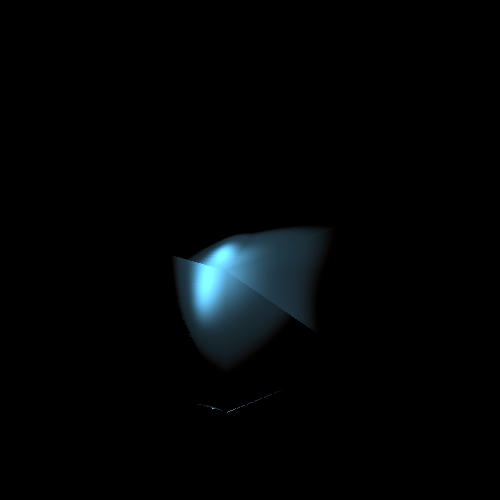
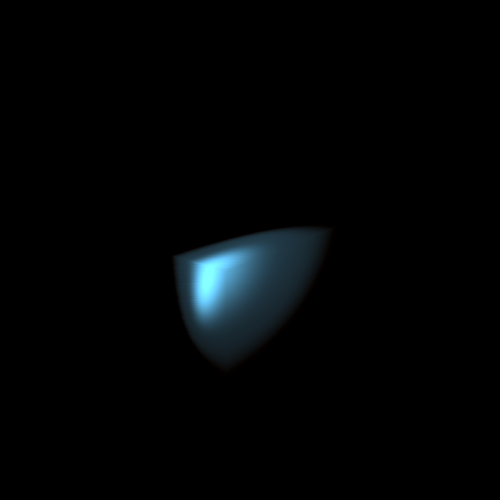
fixerino

Changed region(s): [[0.36, 0.45, 0.48, 0.54], [0.57, 0.57, 0.63, 0.66]]

diff --git a/draw.c b/draw.c
@@ -1341,7 +1341,7 @@ void draw_line2(int x0, int y0, double z0, int x1, int y1, double z1, screen s, 
 		z = z1;
 		
 		n[0] = n1[0];
-		n[1] = n1[0];
+		n[1] = n1[1];
 		n[2] = n1[2];
 		x1 = x0;
 		y1 = y0;
@@ -1371,7 +1371,7 @@ void draw_line2(int x0, int y0, double z0, int x1, int y1, double z1, screen s, 
 		//slope < 1: Octant 1 (5)
 		if ( dx > dy ) {
 			d = dy - ( dx / 2 );
-	
+			//printf("bip\n");
 			while ( x <= x1 ) {
 			  plot1(s,  x, y, z, zbuf, n, rcolor, ambient, point);
 			  if ( d < 0 ) {
@@ -1394,8 +1394,11 @@ void draw_line2(int x0, int y0, double z0, int x1, int y1, double z1, screen s, 
 			  n[1] = n0[1] + ((double)x-x0)/(x1-x0)*(n1[1]-n0[1]);
 			  n[2] = n0[2] + ((double)x-x0)/(x1-x0)*(n1[2]-n0[2]);
 			  
-	
+			  //printf("n %f %f %f\n",n[0],n[1],n[2]);
+			  //printf("nL %f %f %f\n",nL[0],nL[1],nL[2]);
+			  //printf("nR %f %f %f\n",nR[0],nR[1],nR[2]);
 			}
+			//printf("bop\n");
 		}
 
 		//slope > 1: Octant 2 (6)
